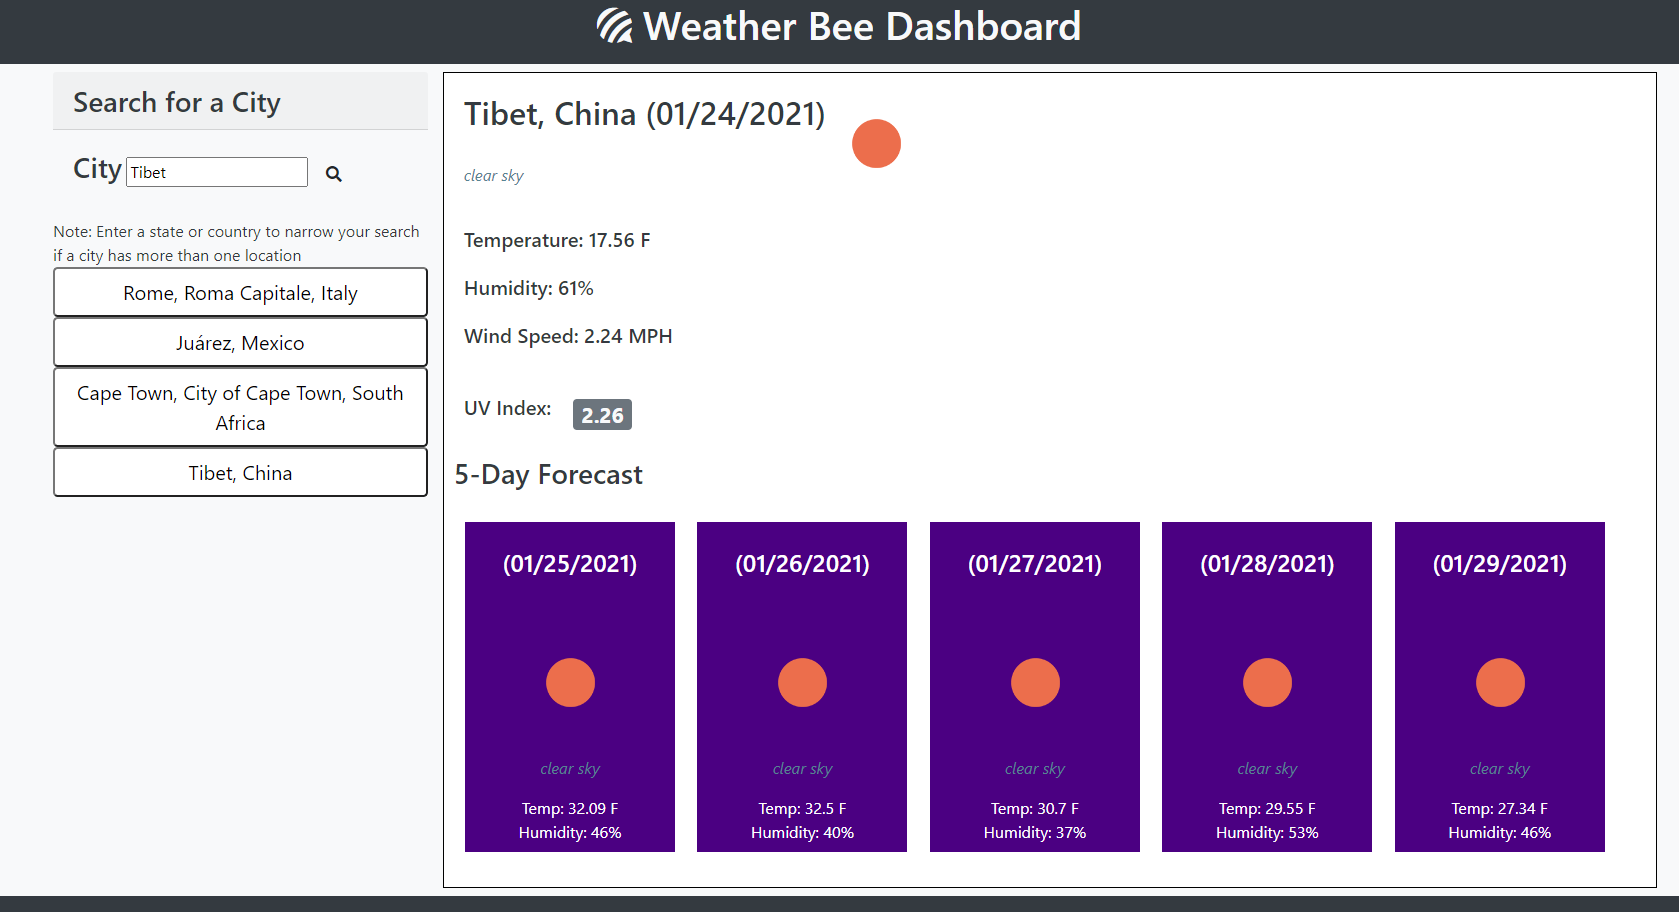
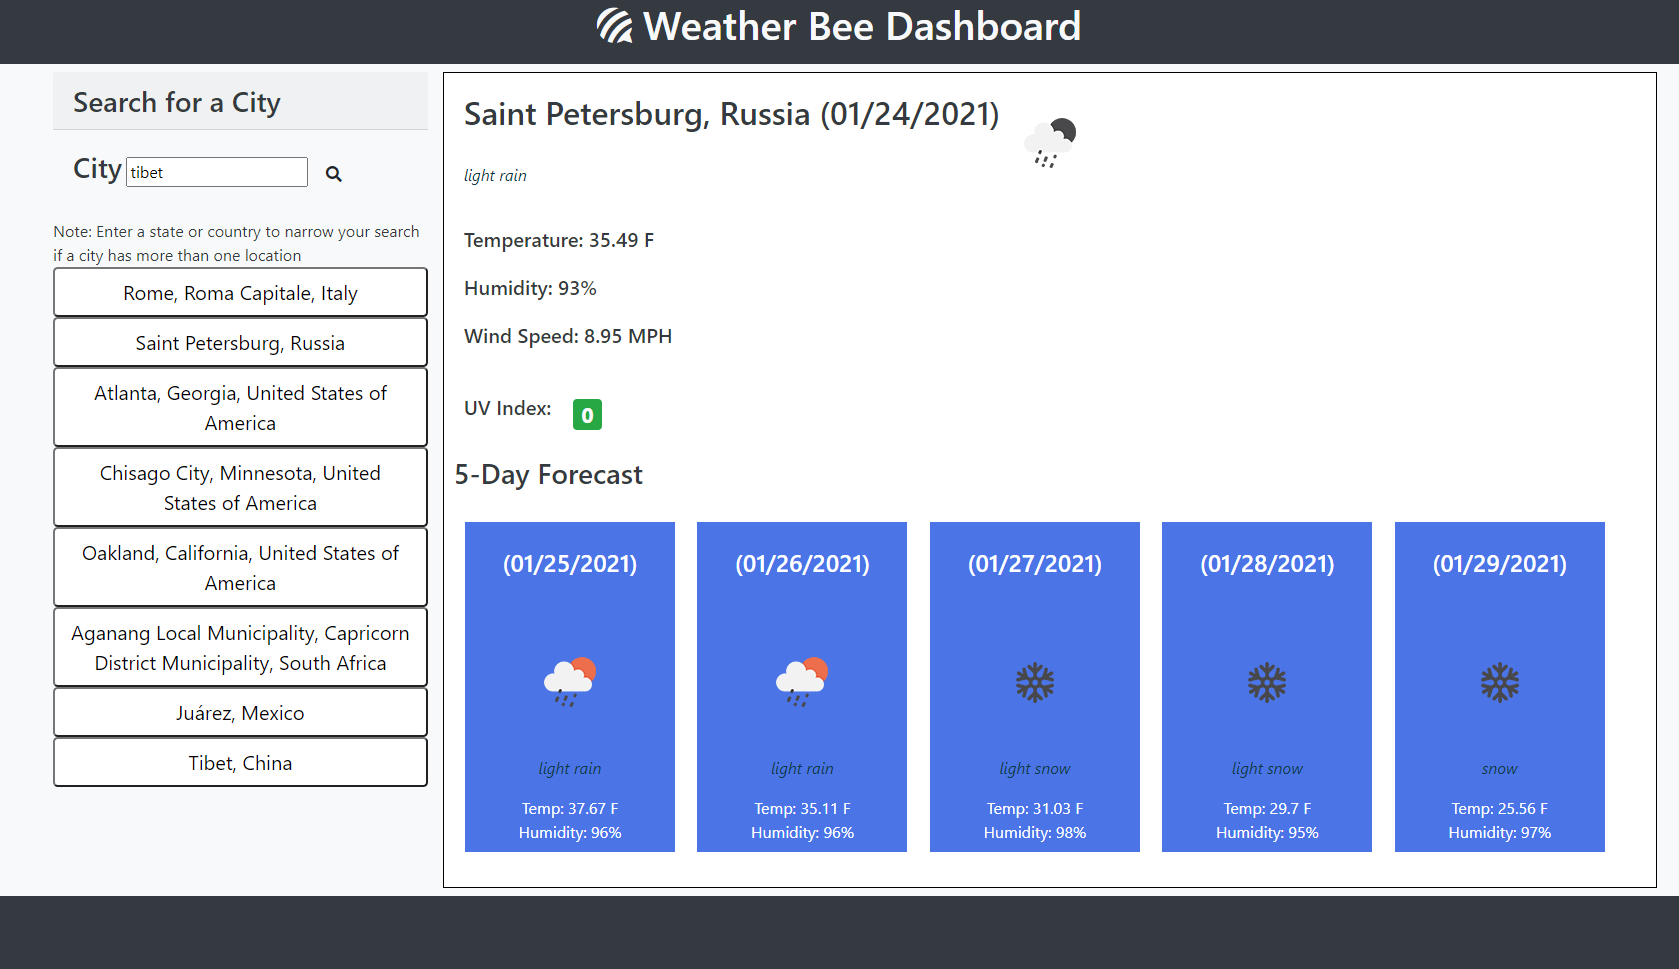
screenshot change

diff --git a/assets/js/script.js b/assets/js/script.js
@@ -219,7 +219,7 @@ var createForecast = function(data) {
         var newColumn = document.createElement('div');
         newColumn.className = "new-column col-10 col-sm-6 col-md-6 col-lg-5 col-xl-2";
 
-        newColumn.setAttribute("style", "text-align: center; padding:10px; color: white; height: 350px; border: 10px solid white; background-color: indigo; min-width: 230px;max-width: 230px;  margin: auto;");
+        newColumn.setAttribute("style", "text-align: center; padding:10px; color: white; height: 350px; border: 10px solid white; background-color:  rgb(75, 116, 231); min-width: 230px;max-width: 230px;  margin: auto;");
         var newColumnInterior = document.createElement('div');
         newColumnInterior.className = "forecast-card p-3";
         newColumnInterior.innerHTML = "<h4 class='date-header'>(" + moment().add(momentIndex, 'd').format('L') +

diff --git a/assets/css/style.css b/assets/css/style.css
@@ -4,7 +4,7 @@ header {
 
 .description {
     font-style: italic;
-    color: rgb(87, 131, 146);
+    color: rgb(12, 57, 71);
 }
 
 .search-result-container {
